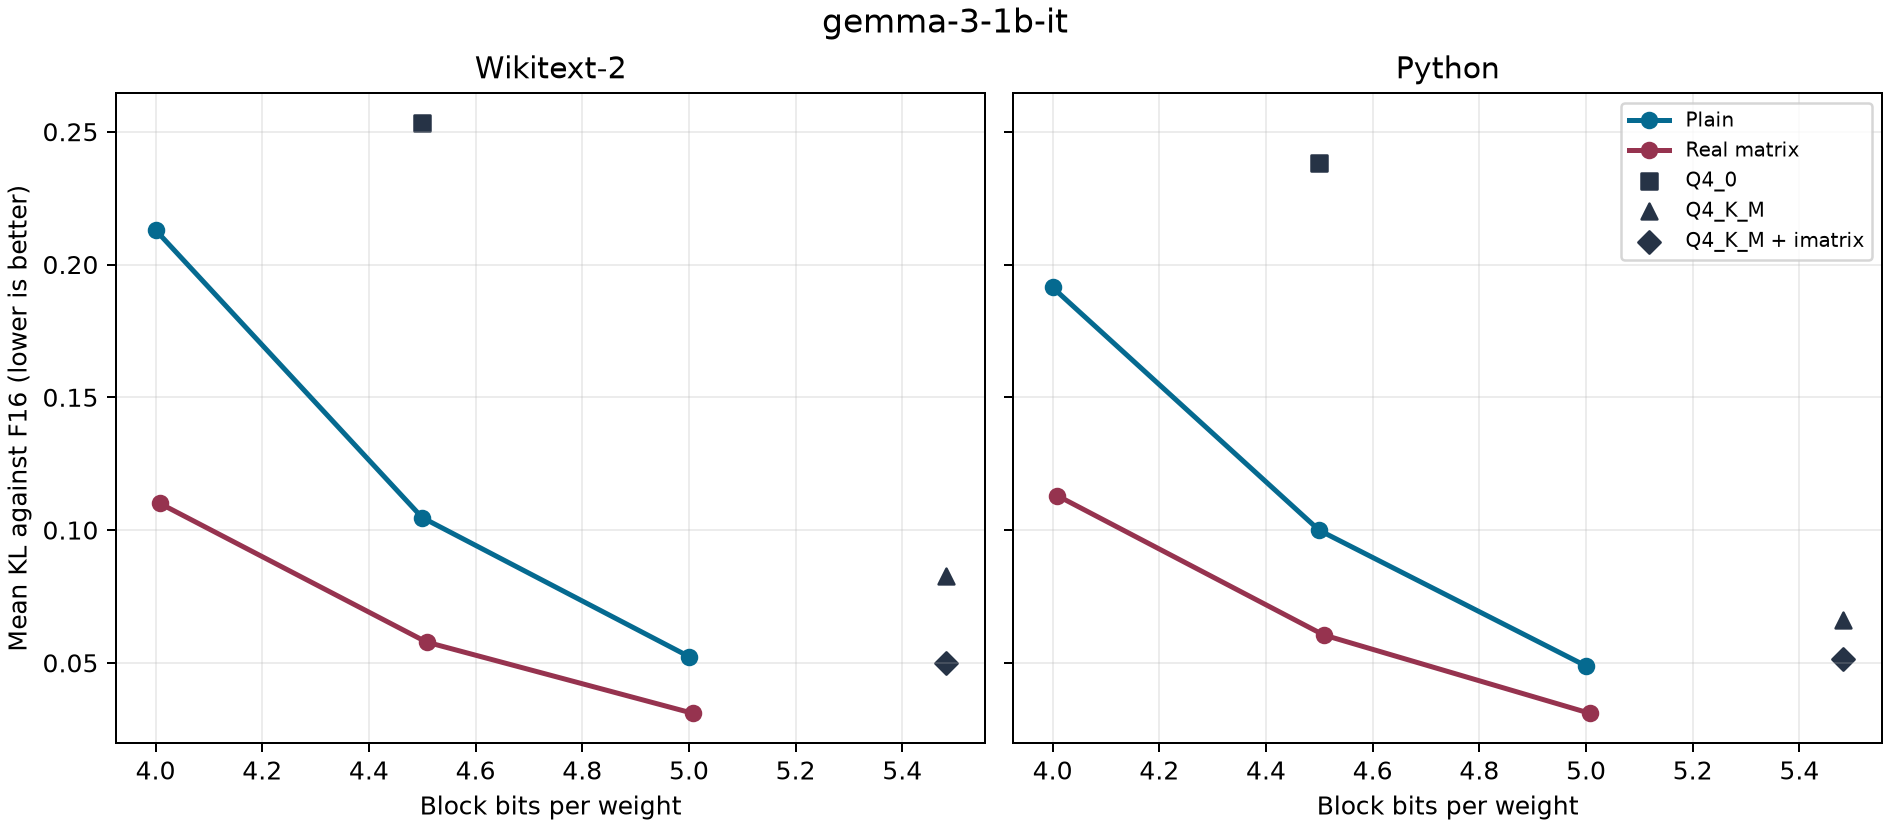
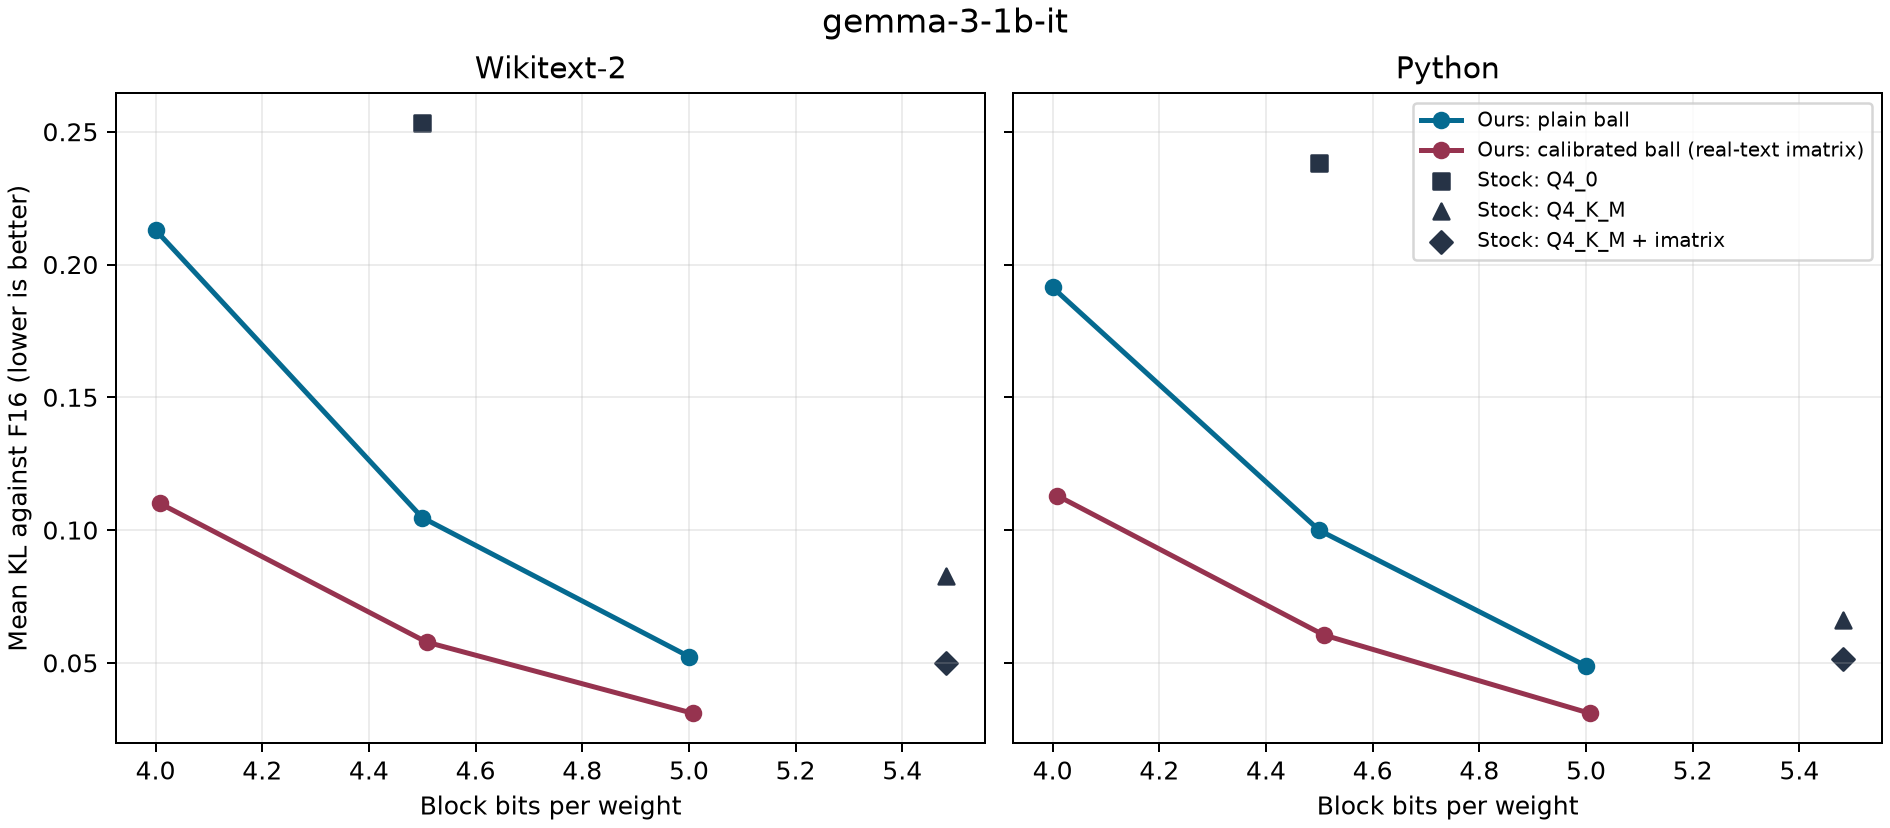
Label our ball variants and stock baselines in Gemma charts

Changed region(s): [[0.7492, 0.1208, 0.9989, 0.3321]]

diff --git a/experiments/model-output-gemma-ball-2026-11-23/plot_impact.py b/experiments/model-output-gemma-ball-2026-11-23/plot_impact.py
@@ -22,13 +22,15 @@ def main():
     fig, axes = plt.subplots(1, 2, figsize=(10.5, 4.6), sharey=True, layout="constrained")
     for ax, text, title in zip(axes, TEXTS, ("Wikitext-2", "Python")):
         cells = select(rows, args.model, text)
-        for (family, arms), color in zip(FAMILIES, ("#056a90", "#96334f")):
+        for (_, arms), color, label in zip(
+                FAMILIES, ("#056a90", "#96334f"),
+                ("Ours: plain ball", "Ours: calibrated ball (real-text imatrix)")):
             points = [(float(cells[a]["bits_per_weight"]), float(cells[a]["kl_mean"]))
                       for a in arms if a in cells]
             if points:
-                ax.plot(*zip(*points), marker="o", linewidth=2, color=color, label=family)
+                ax.plot(*zip(*points), marker="o", linewidth=2, color=color, label=label)
         for arm, shape, label in zip((Q4, Q4KM, Q4IMAT), ("s", "^", "D"),
-                                      ("Q4_0", "Q4_K_M", "Q4_K_M + imatrix")):
+                                      ("Stock: Q4_0", "Stock: Q4_K_M", "Stock: Q4_K_M + imatrix")):
             if arm in cells:
                 r = cells[arm]
                 ax.scatter(float(r["bits_per_weight"]), float(r["kl_mean"]),

diff --git a/experiments/model-output-gemma-ball-2026-11-23/verification/AUDIT_LOG.md b/experiments/model-output-gemma-ball-2026-11-23/verification/AUDIT_LOG.md
@@ -10,3 +10,4 @@ Append-only. This log is for impact evidence; it does not record prediction verd
 | AUDIT-004 | 2026-11-23 | Impact analysis | Synthetic refusal controls for the impact scorer (no new measurements) | R4, R5 | exact | N0 | VERIFIED | Eight tests passed in each isolated mode, with identical stdout and skip parity. Aletheia mutate tested all 51 discovered sites: 51 killed, 0 survived, untruncated. No guard exemptions or production changes. The audit in AUDIT-002 remains as historical evidence. Ratchet head: `sha256:c757877ad159355a395d42e0ac79803c26ee45978cfe6ecf0c8e1af44f9119f0`. |
 | AUDIT-005 | 2026-11-23 | Impact analysis | Retrospective cross-model transfer and next-run ranking | G8, descriptive only | exact arithmetic, sampled inputs | N0 | PARTIAL/FRAGILE | The post-data amendment `57c7b73` precedes ratio calculation, not the historical data. Eight text-level contrasts and two additional Gemma ratios replay from reported decimals. Missing matched 7B-class F16 evidence, heterogeneous runs and no replicated calibration seeds preclude a size trend or a measured scenario transfer factor. Ratchet head: `sha256:41b5962225be136dd87a219490cae8c408b4282da2dea7689462cafe96e296f8`. |
 | AUDIT-006 | 2026-11-23 | Impact analysis | Verify raw output receipts, replay 270M and compare 1B | R5; retrospective impact only | exact arithmetic, sampled inputs | N0, N1 | PARTIAL/FRAGILE | Both 270M file hashes match forwarded receipts; 1B hashes pin the committed output. Strict parsing accepted 34 rows/model and reconciled all 170 transcribed numeric fields at their displayed precision. Model/text identifiers are not independently hashed inputs. R5: 51/51 killed, 0 survivors, untruncated. The 1B interpolated match and serving scenarios are not deployable measurements. Ratchet head: `sha256:1db0cdc2a0e347ca28b7512c22a6222ff9f9db4f05446ea785b77026acf6a0ef`. |
+| AUDIT-007 | 2026-11-23 | Impact analysis | Distinguish our ball variants from stock in the three impact charts | Chart labeling only | exact label check, visual inspection | N0 | VERIFIED | The per-model plots label both ball lines as ours and all three baseline markers as stock. The cross-model title and axis specify our plain-ball KL divided by stock Q4_0 KL. Figures were regenerated and visually checked; input measurements and analysis are unchanged. Ratchet head: `sha256:1e6ac360f205f5d14a3e82769b5aecf435a8e10caebc3be60338593b5eafdc21`. |
